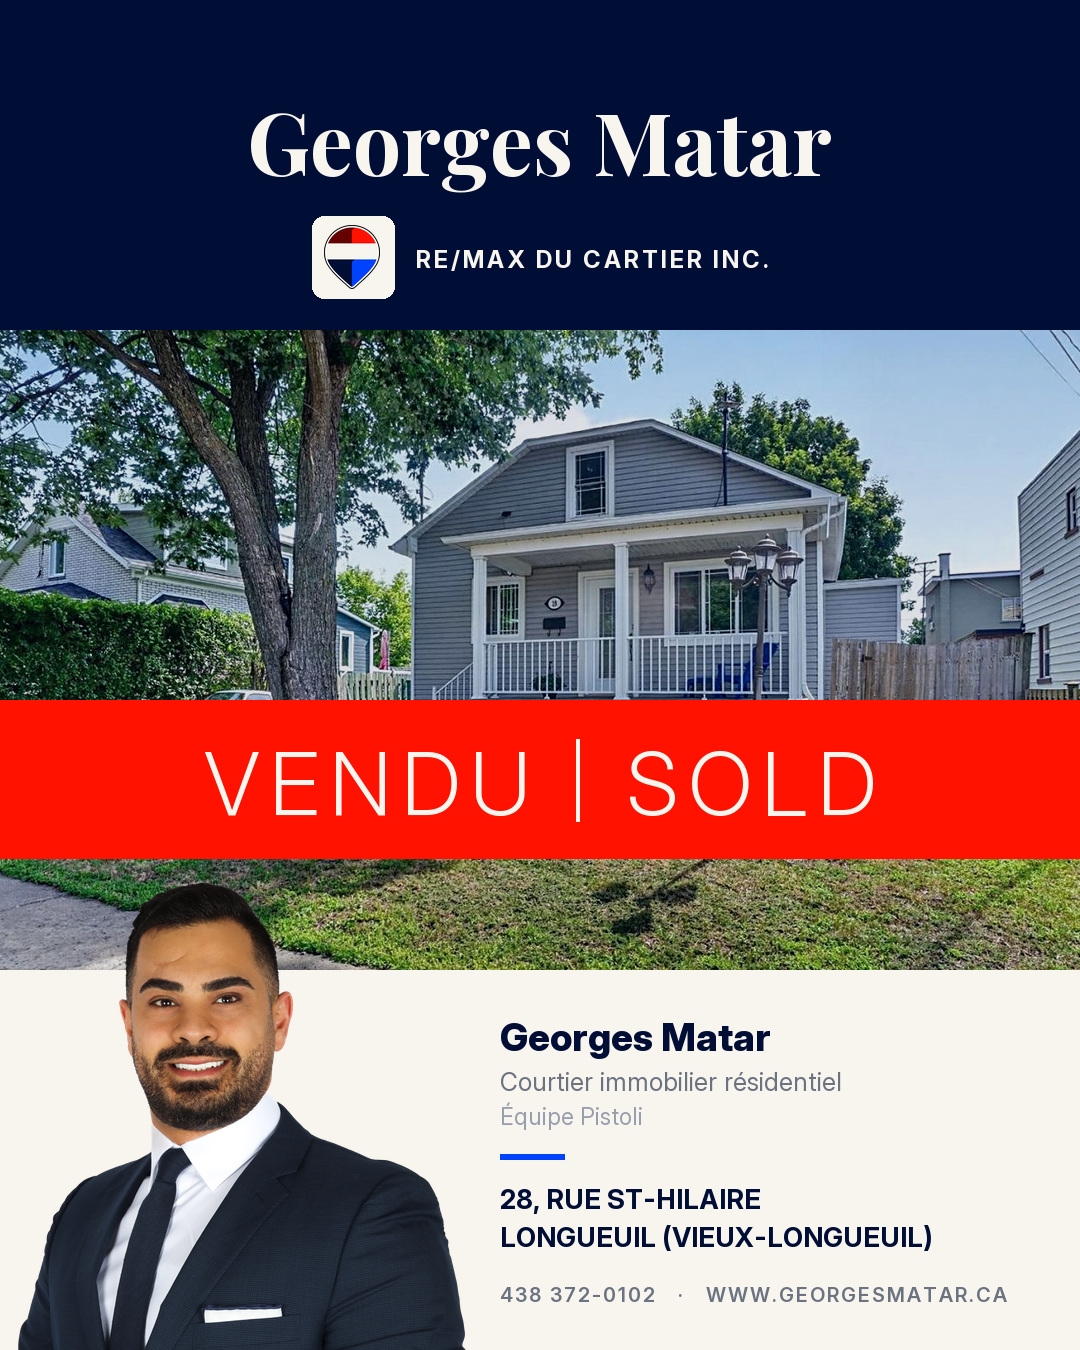
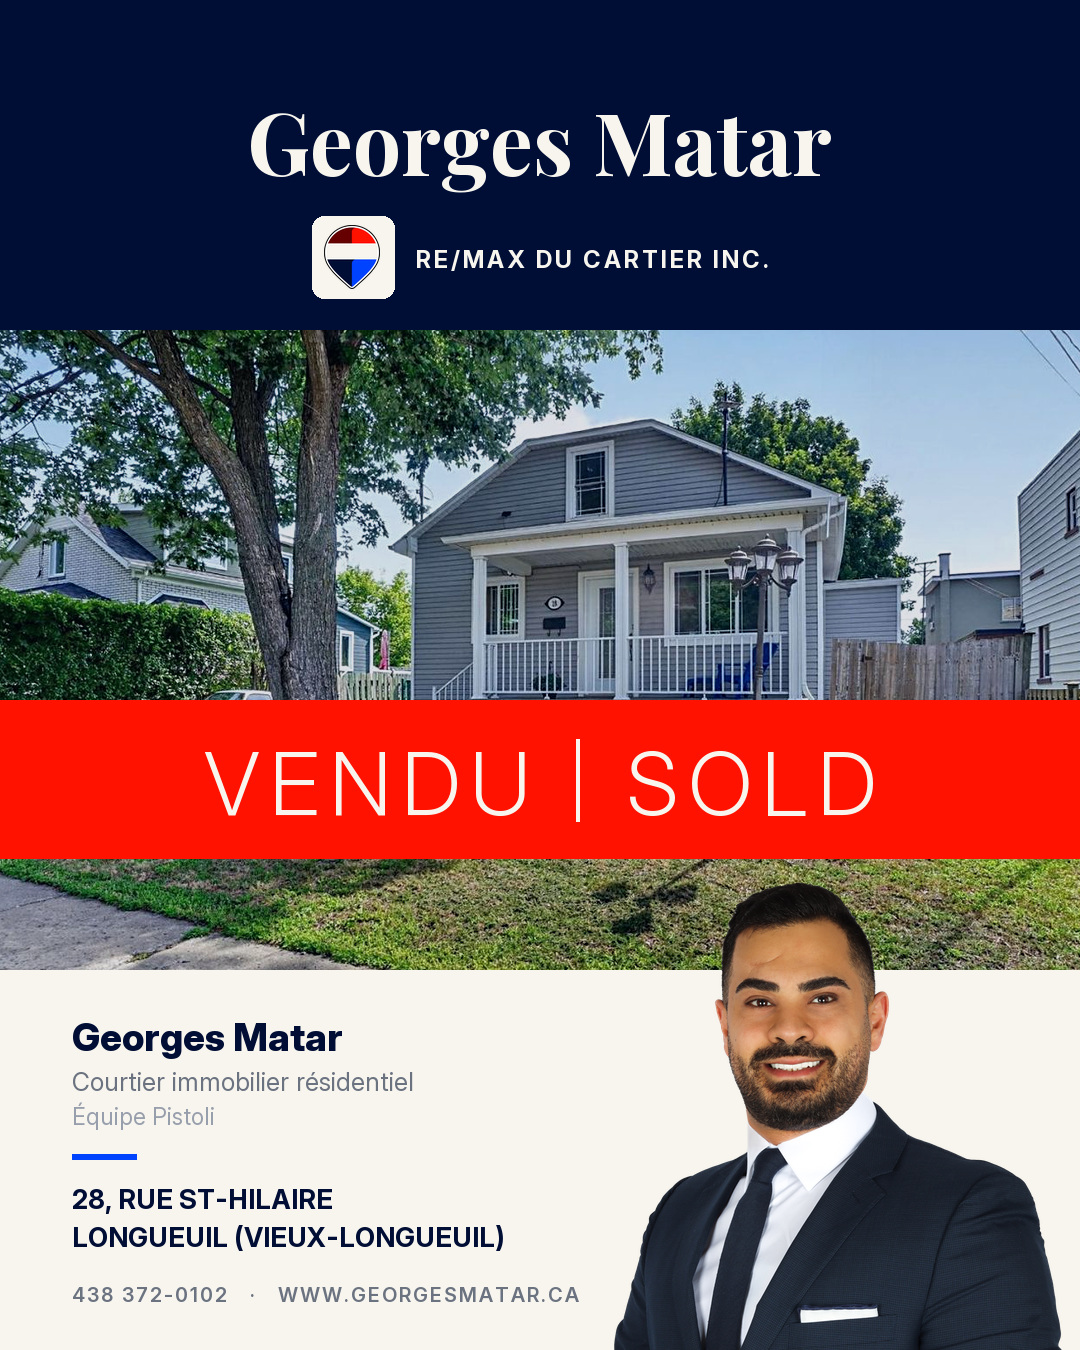
refactor: le portrait passe a droite sur les publications VENDU
Le pied est inverse: le nom, le titre et l adresse tiennent la marge gauche,
le portrait ferme le bloc a droite. Le texte garde son alignement a gauche,
c est le bord que l oeil suit.

Changed region(s): [[0.0, 0.6533, 1.0, 1.0]]

diff --git a/carrousel-instagram/vendu/generer-post-vendu.py b/carrousel-instagram/vendu/generer-post-vendu.py
@@ -153,7 +153,7 @@ def bandeau_vendu(c, prop):
 
 
 def pied(c, prop):
-    """Le pied creme: le portrait a gauche, l adresse a droite.
+    """Le pied creme: le portrait a droite, le nom et l adresse a gauche.
 
     Le pied reste clair alors que l en-tete est navy: le portrait est un
     decoupe en complet sombre, il disparaitrait sur un fond fonce.
@@ -165,11 +165,13 @@ def pied(c, prop):
     p = p.crop(p.getchannel("A").getbbox())
     ph = 468
     pw = int(p.width * ph / p.height)
-    c.alpha_composite(p.resize((pw, ph), Image.LANCZOS), (18, H - ph))
+    c.alpha_composite(p.resize((pw, ph), Image.LANCZOS), (W - 18 - pw, H - ph))
 
+    # le texte garde son alignement a gauche, sur la marge de la page: c est
+    # le bord que l oeil suit, et le portrait ferme le bloc a droite
     d = ImageDraw.Draw(c)
-    x = 18 + pw + 34
-    dispo = W - MARGE - x
+    x = MARGE
+    dispo = (W - 18 - pw) - 34 - x
     d.text((x, 1014), COURTIER, font=inter(38, 800), fill=NAVY)
     y = 1066
     for ln in wrap(d, TITRE, inter(25, 400), dispo):

diff --git a/carrousel-instagram/vendu/README.md b/carrousel-instagram/vendu/README.md
@@ -20,7 +20,8 @@ trois aplats et rien d'autre.
 1. **L'en-tête navy**: le nom du courtier en Playfair crème, puis le ballon
    sur sa pastille crème et RE/MAX DU CARTIER INC.
 2. **La façade** en plein cadre, barrée du **bandeau rouge VENDU | SOLD**.
-3. **Le pied crème**: le portrait, le titre, l'adresse.
+3. **Le pied crème**: le nom, le titre et l'adresse à gauche, le portrait
+   à droite.
 
 Pas de prix, pas de caractéristiques. Ce n'est pas une annonce, c'est une
 preuve, et elle doit se lire en une seconde dans un fil.
